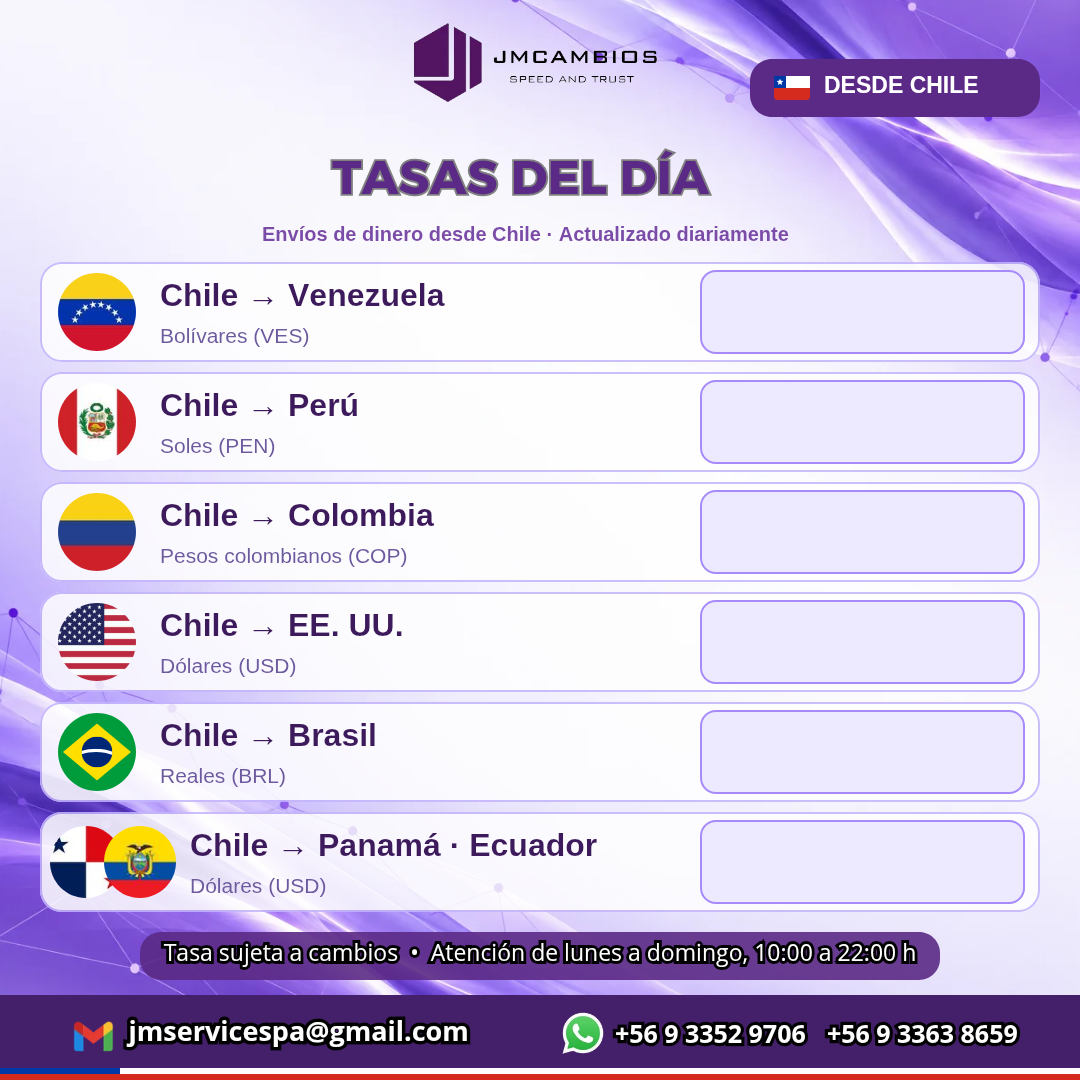
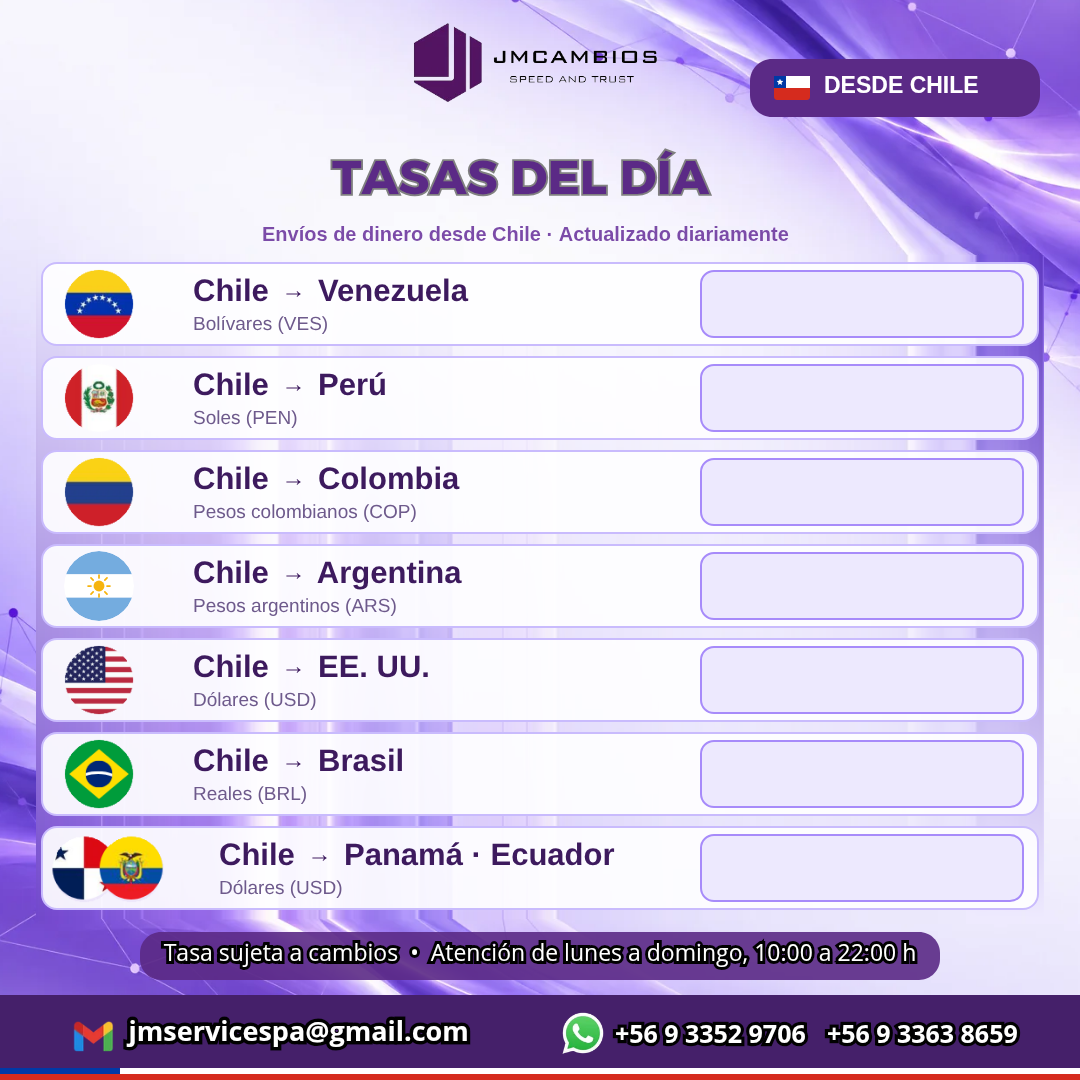
Flyer de Chile con 7 rutas: se agrega Chile → Argentina (se quita el flyer aparte)
Claude-Session: https://claude.ai/code/session_01RMbPkgn1UWmsphcd4r7zRi

Changed region(s): [[0.0306, 0.2444, 0.9778, 0.8556], [0.55, 0.825, 0.9472, 0.8556]]

diff --git a/cotizador/public/panel/index.html b/cotizador/public/panel/index.html
@@ -151,11 +151,6 @@
     <div class="row2"><button class="btn ghost" data-dl="CL">Descargar</button><button class="btn" data-share="CL">Compartir</button></div>
     <label class="f" for="estado-CL">Texto para el estado (Chile)<textarea id="estado-CL" class="estado" rows="4"></textarea></label>
     <div class="row2"><button class="btn ghost" data-reset="CL">Texto automático</button><button class="btn" data-copy="CL">Copiar texto</button></div>
-    <div class="flyer"><h3>Desde Chile · Colombia y Argentina</h3><img id="fly-CL2" alt="Flyer de tasas desde Chile a Colombia y Argentina"></div>
-    <div class="row2"><button class="btn ghost" data-dl="CL2">Descargar</button><button class="btn" data-share="CL2">Compartir</button></div>
-    <label class="f" for="estado-CL2">Texto para el estado (Chile · Colombia y Argentina)<textarea id="estado-CL2" class="estado" rows="4"></textarea></label>
-    <div class="row2"><button class="btn ghost" data-reset="CL2">Texto automático</button><button class="btn" data-copy="CL2">Copiar texto</button></div>
-
     <div class="flyer"><h3>Desde Colombia</h3><img id="fly-CO" alt="Flyer de tasas desde Colombia (Venezuela y Chile)"></div>
     <div class="row2"><button class="btn ghost" data-dl="CO">Descargar</button><button class="btn" data-share="CO">Compartir</button></div>
     <label class="f" for="estado-CO">Texto para el estado (Colombia)<textarea id="estado-CO" class="estado" rows="4"></textarea></label>

diff --git a/cotizador/public/js/panel.js b/cotizador/public/js/panel.js
@@ -384,8 +384,7 @@ const loadImg = (src) => new Promise((ok, ko) => { const i = new Image(); i.onlo
 const emojiFlag = (c) => String.fromCodePoint(...[...c].map((ch) => 0x1F1E6 + ch.charCodeAt(0) - 65));
 const STATUS_FLAGS = ['EC', 'CO', 'VE', 'DO', 'PE', 'AR', 'PA', 'MX', 'BR', 'UY', 'EU', 'ES', 'US'];
 function autoStatusText(k) {
-  const from = FLYERS[k]?.from ?? k;  // CL2 es el segundo flyer de Chile
-  return `${emojiFlag(from)}➡${STATUS_FLAGS.filter((c) => c !== from).map(emojiFlag).join('')}💱\n`
+  return `${emojiFlag(k)}➡${STATUS_FLAGS.filter((c) => c !== k).map(emojiFlag).join('')}💱\n`
     + `Pago Rápido y Seguro\n`
     + `Cotiza tu envío aquí 👉 ${location.origin}/`;
 }
@@ -439,7 +438,7 @@ async function drawFlyers() {
   }
 }
 
-const FLYER_SLUG = { CL: 'chile', CL2: 'chile-colombia-argentina', CO: 'colombia', EU: 'europa' };
+const FLYER_SLUG = { CL: 'chile', CO: 'colombia', EU: 'europa' };
 const flyerName = (k) => `tasas-${FLYER_SLUG[k] || k.toLowerCase()}-${new Date().toISOString().slice(0, 10)}.png`;
 document.querySelectorAll('[data-dl]').forEach((b) => b.onclick = () => {
   const k = b.dataset.dl;

diff --git a/cotizador/public/js/rutas.js b/cotizador/public/js/rutas.js
@@ -34,9 +34,7 @@ export const ADVISORS = {
 
 // Casillas de las plantillas de flyer (1080×1080): [ruta, centro x, centro y].
 export const FLYERS = {
-  CL: { file: '/assets/flyer-chile.png', maxW: 280, size: 58, slots: [['cl-ve', 862, 311], ['cl-pe', 862, 421], ['cl-co', 862, 531], ['cl-us', 862, 641], ['cl-br', 862, 751], ['cl-pa', 862, 861]] },
-  // Segundo flyer de Chile (misma plantilla que Colombia): Colombia y Argentina con la tasa en grande.
-  CL2: { from: 'CL', file: '/assets/flyer-chile-2.png', maxW: 280, size: 60, slots: [['cl-co', 686, 432], ['cl-ar', 686, 688]] },
+  CL: { file: '/assets/flyer-chile.png', maxW: 280, size: 50, slots: [['cl-ve', 862, 304], ['cl-pe', 862, 398], ['cl-co', 862, 492], ['cl-ar', 862, 586], ['cl-us', 862, 680], ['cl-br', 862, 774], ['cl-pa', 862, 868]] },
   CO: { file: '/assets/flyer-colombia.png', maxW: 280, size: 60, slots: [['co-ve', 686, 432], ['co-cl', 686, 688]] },
   EU: { file: '/assets/flyer-europa.png', maxW: 420, size: 84, slots: [['eu-ve', 540, 686]] },
 };
